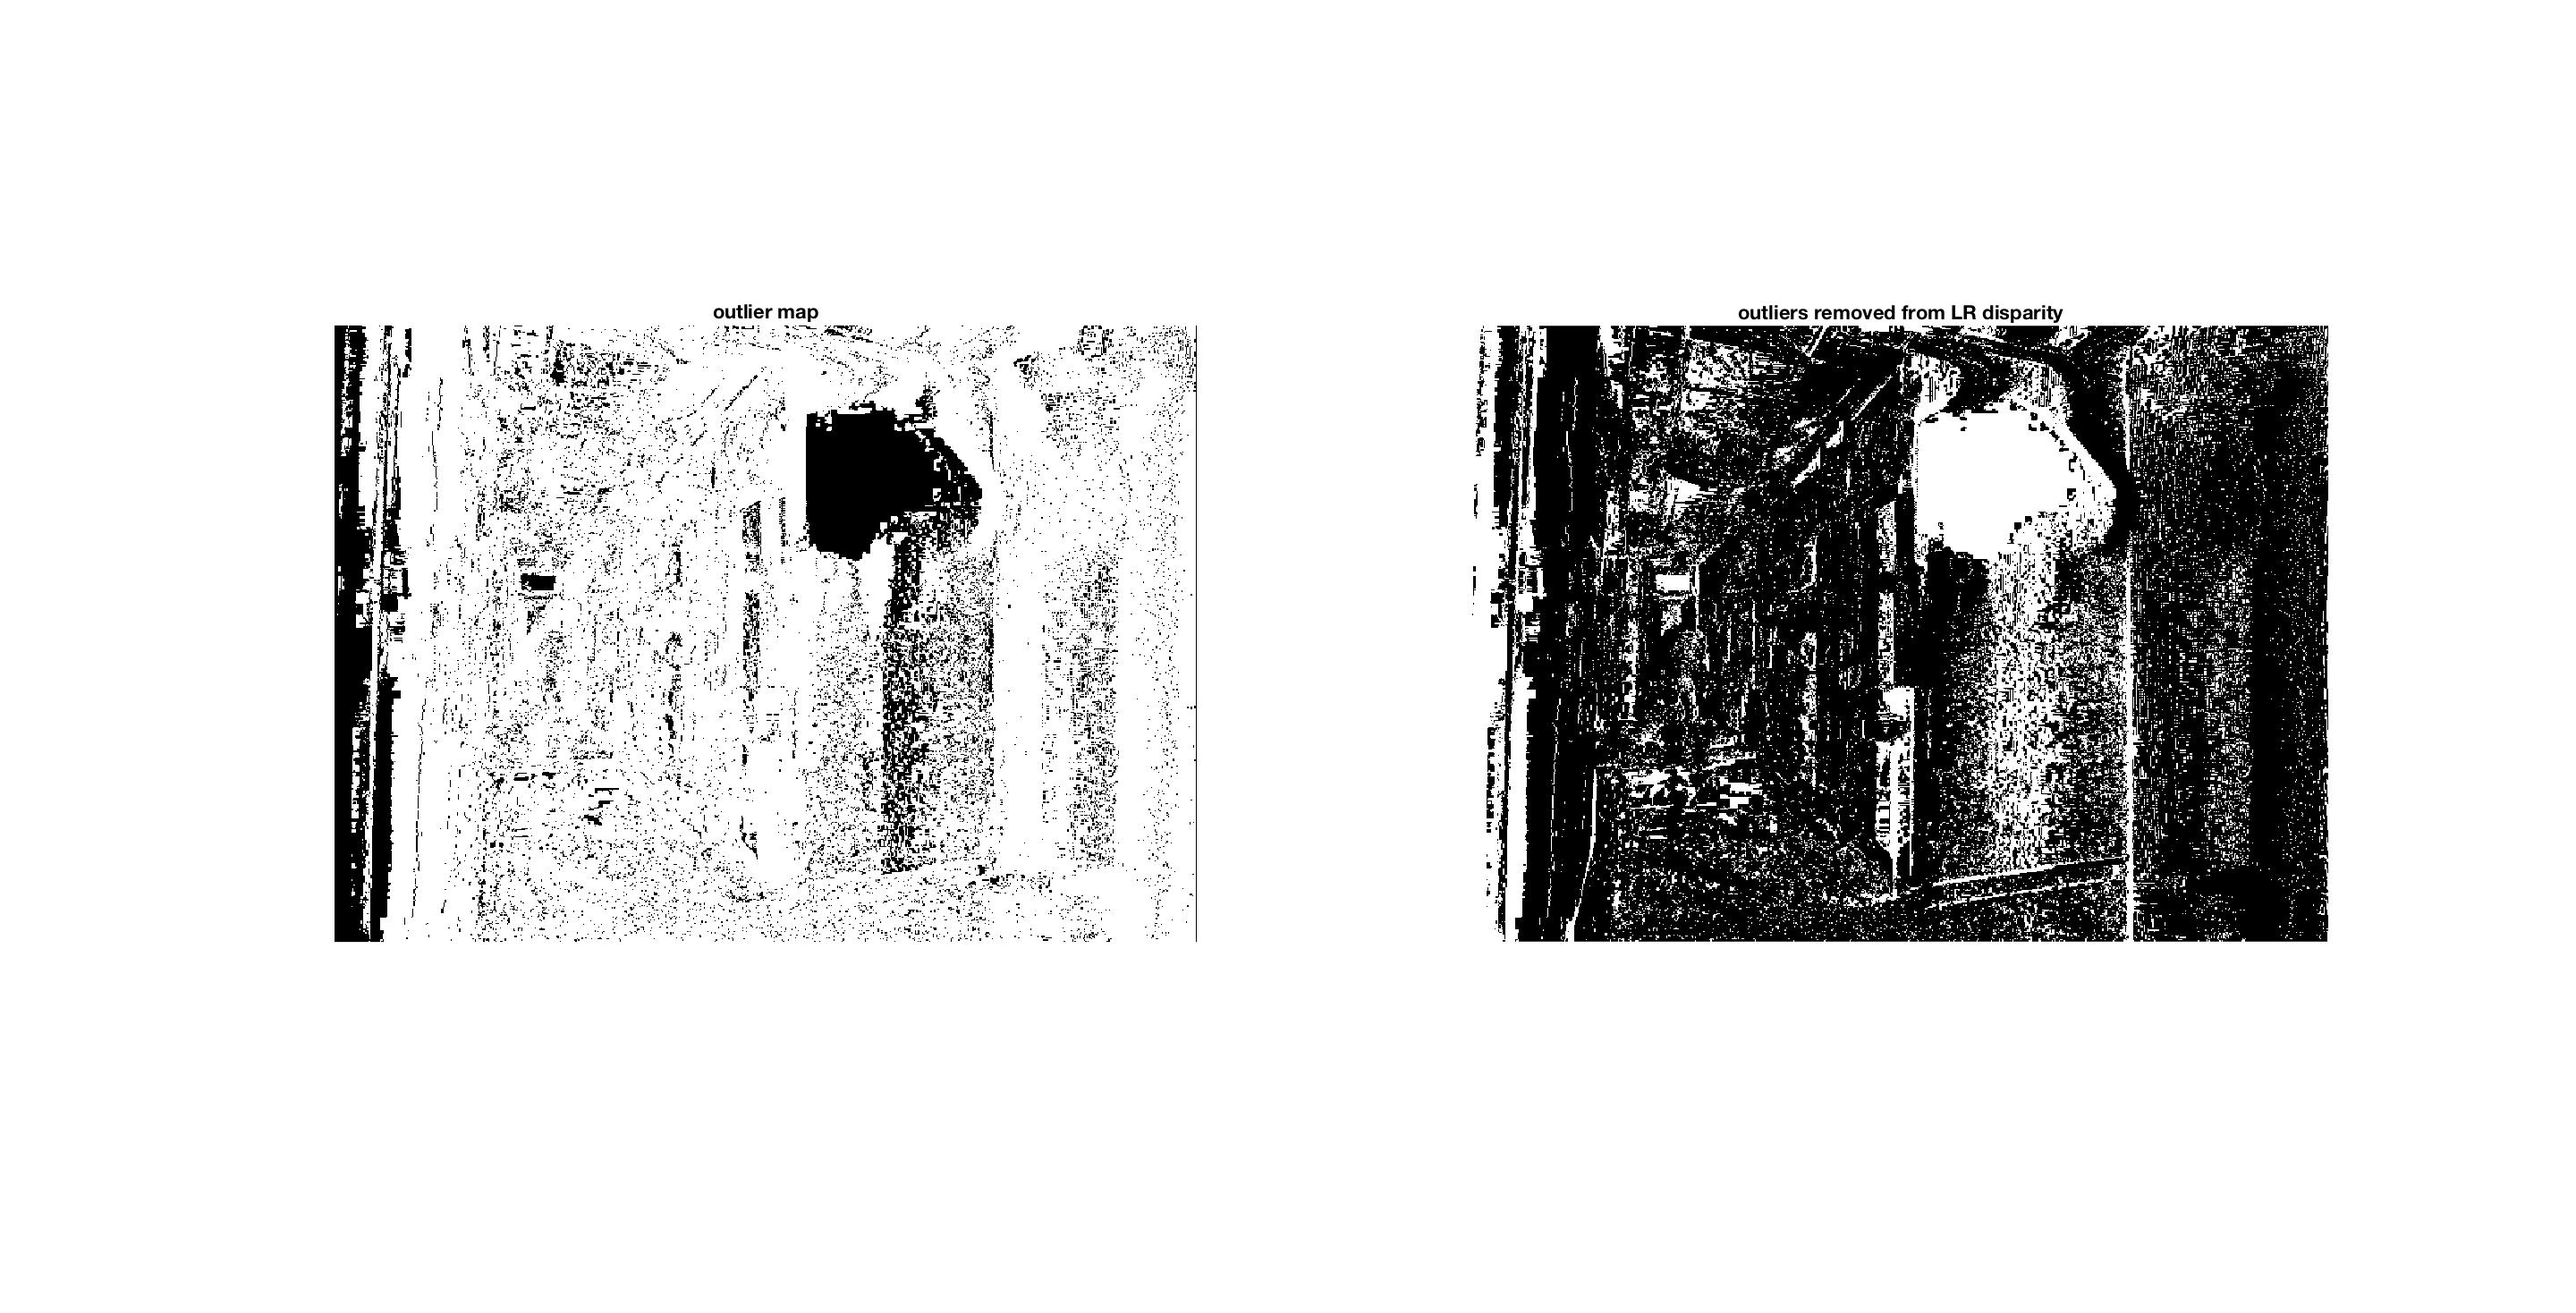
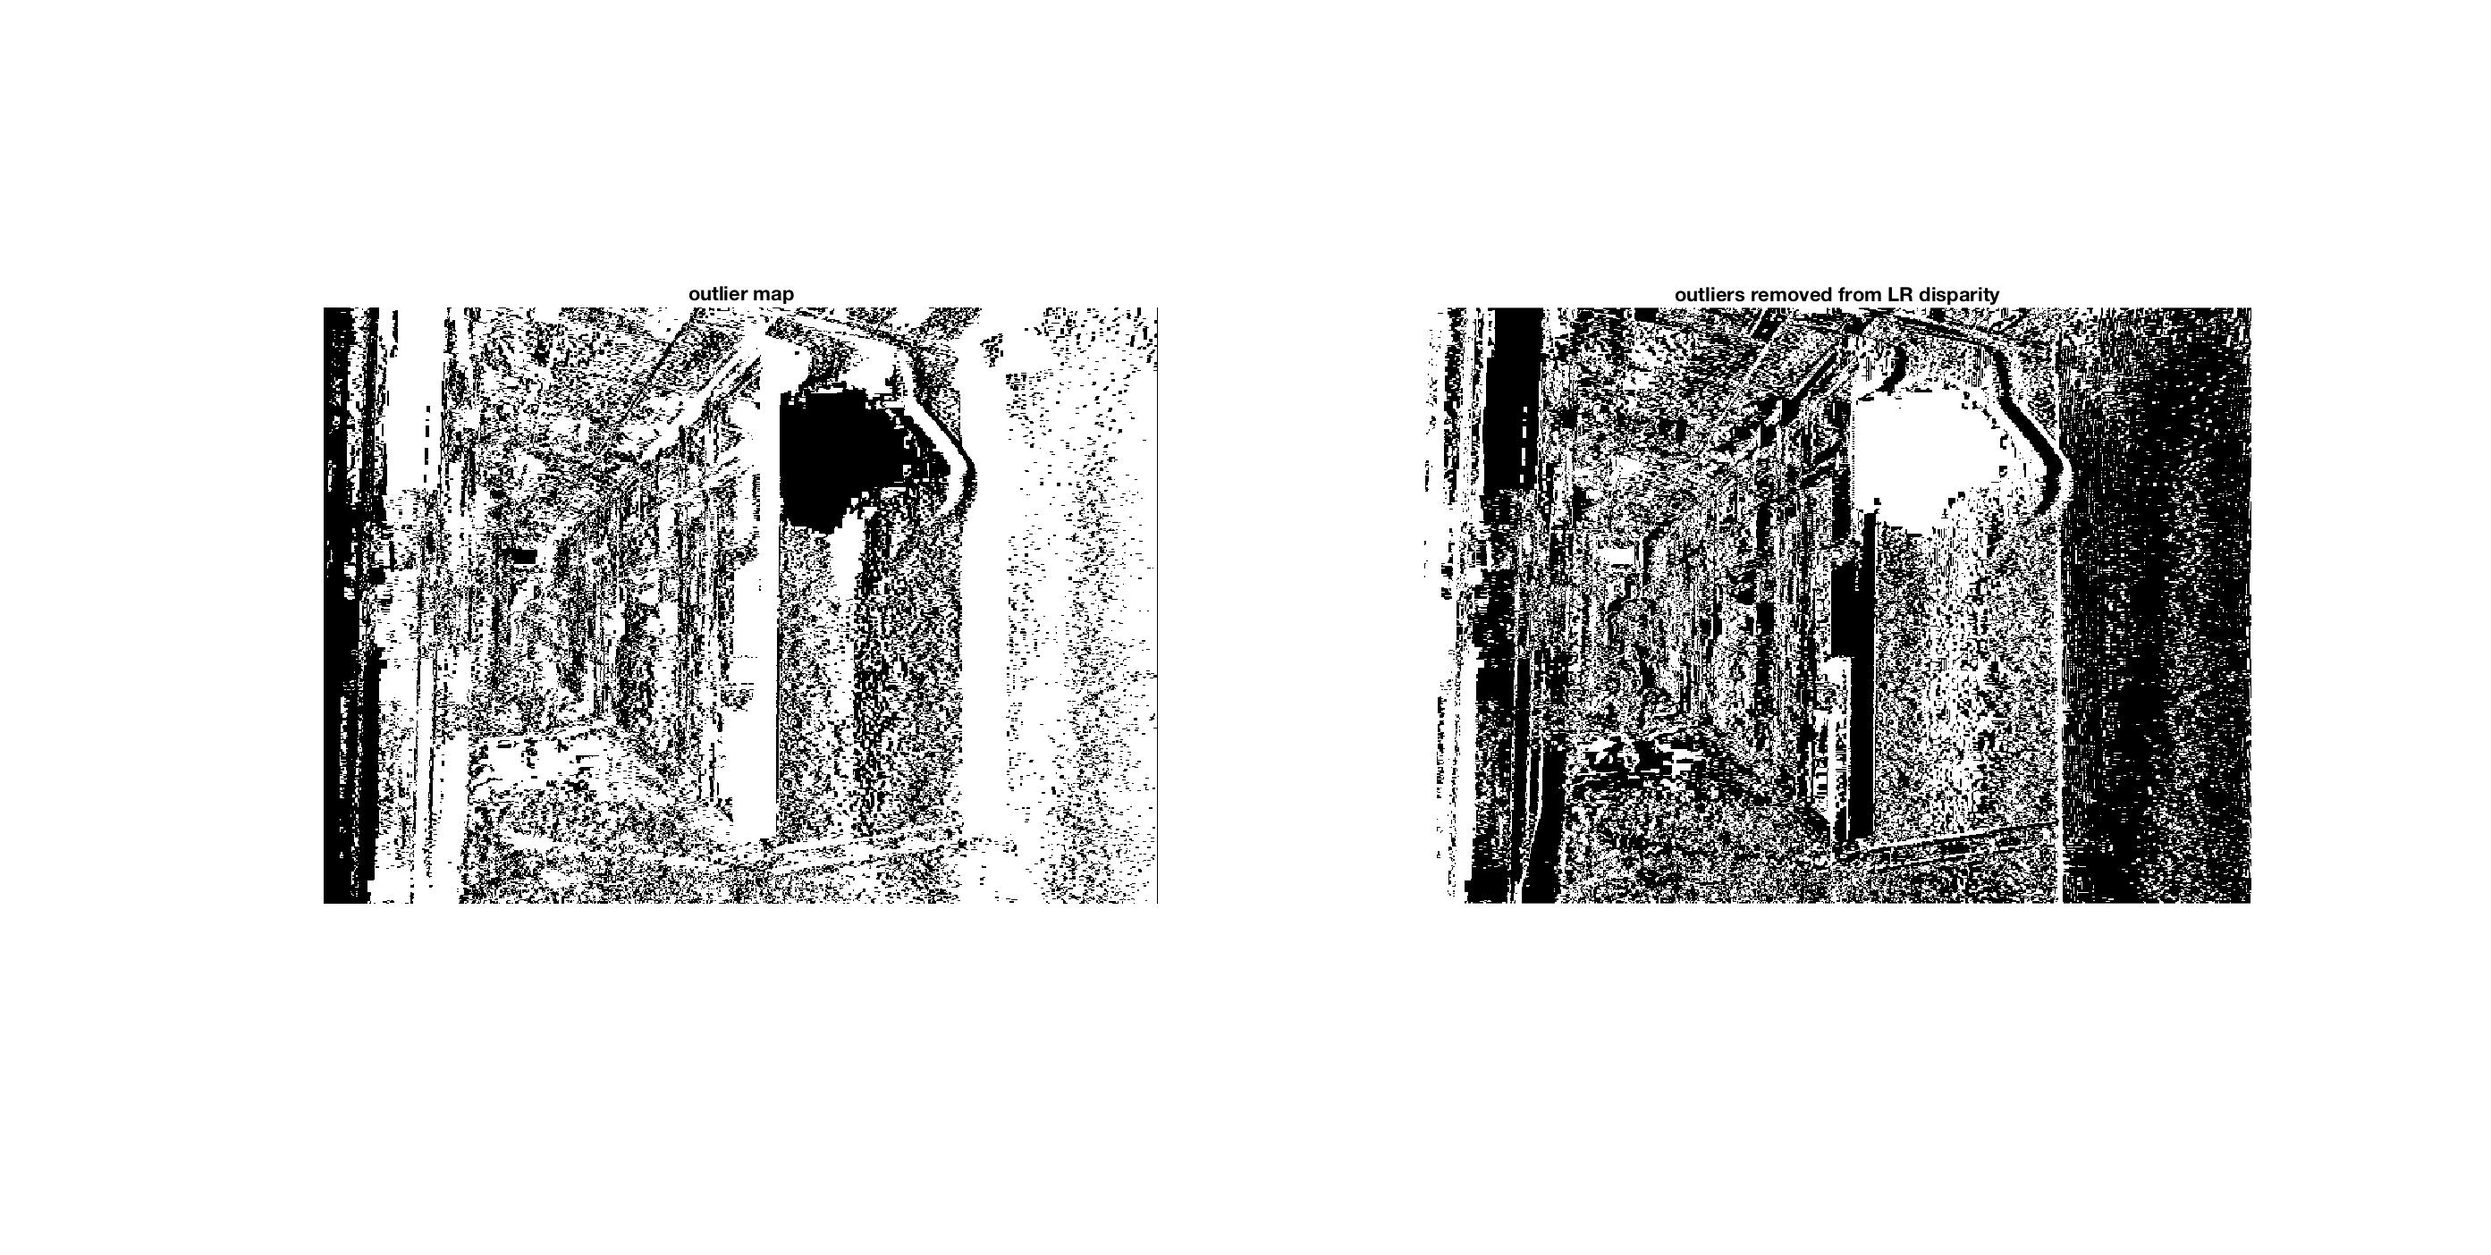
added outlier map and tasks file

Changed region(s): [[0.5621, 0.2144, 0.9056, 0.735], [0.1249, 0.2144, 0.4684, 0.735]]

diff --git a/assignment-3/tasks.m b/assignment-3/tasks.m
@@ -70,10 +70,19 @@ outliers = outlierMap(LR, RL, threshold);
 
 subplot(121);
 imshow(outliers);
-title('outlier map');
+title('outlier map using SSD window=3');
+
+LR = computeDisparity(leftIm, rightIm, wsize, 'NCC');
+RL = fliplr(computeDisparity(fliplr(rightIm), fliplr(leftIm), wsize, 'NCC'));
+threshold = 1;
+outliers = outlierMap(LR, RL, threshold);
 
 subplot(122);
-imshow(LR.*outliers==0);
-title('outliers removed from LR disparity');
+imshow(outliers);
+title('outlier map using NCC window=3');
+% subplot(122);
+% imshow(LR.*outliers==0);
+% title('outliers removed from LR disparity');
+
 % task 4
 % nothing to do

diff --git a/assignment-3/outlierMap.m b/assignment-3/outlierMap.m
@@ -13,11 +13,11 @@ function [outlier] = outlierMap(lr, rl, th)
         for c = 1:cols
             temp = lr(r, c);
             
-            if (c-temp < 1 || c-temp > cols)
+            if (c-temp < 1 || c+temp > cols)
                 continue;
             end
             
-            if abs(temp - rl(r, c-temp)) > th
+            if abs(temp - rl(r, c+temp)) > th
                 outlier(r, c) = 1;
             end
         end
